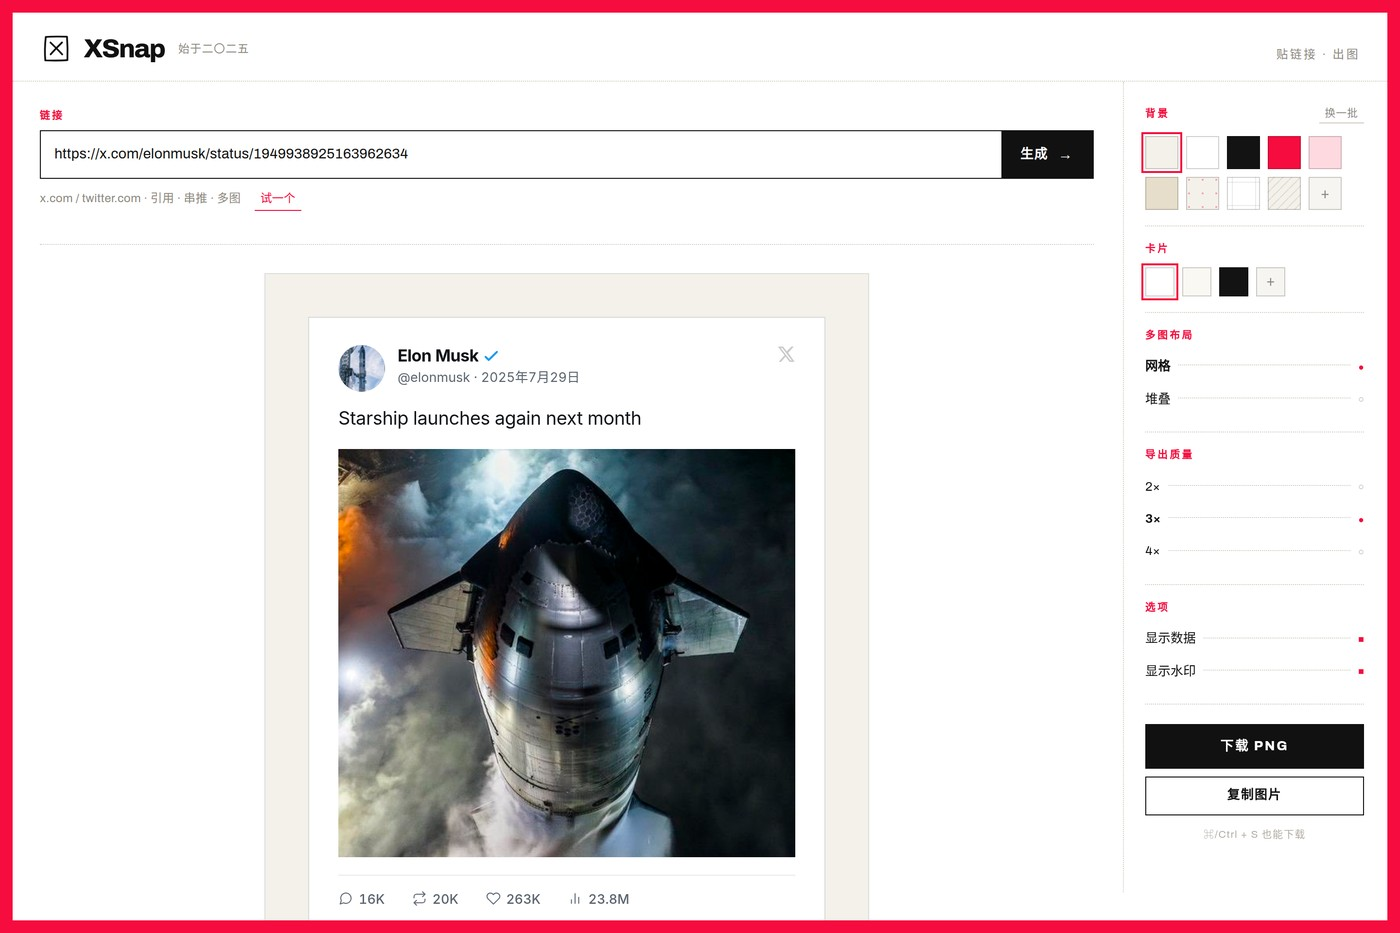
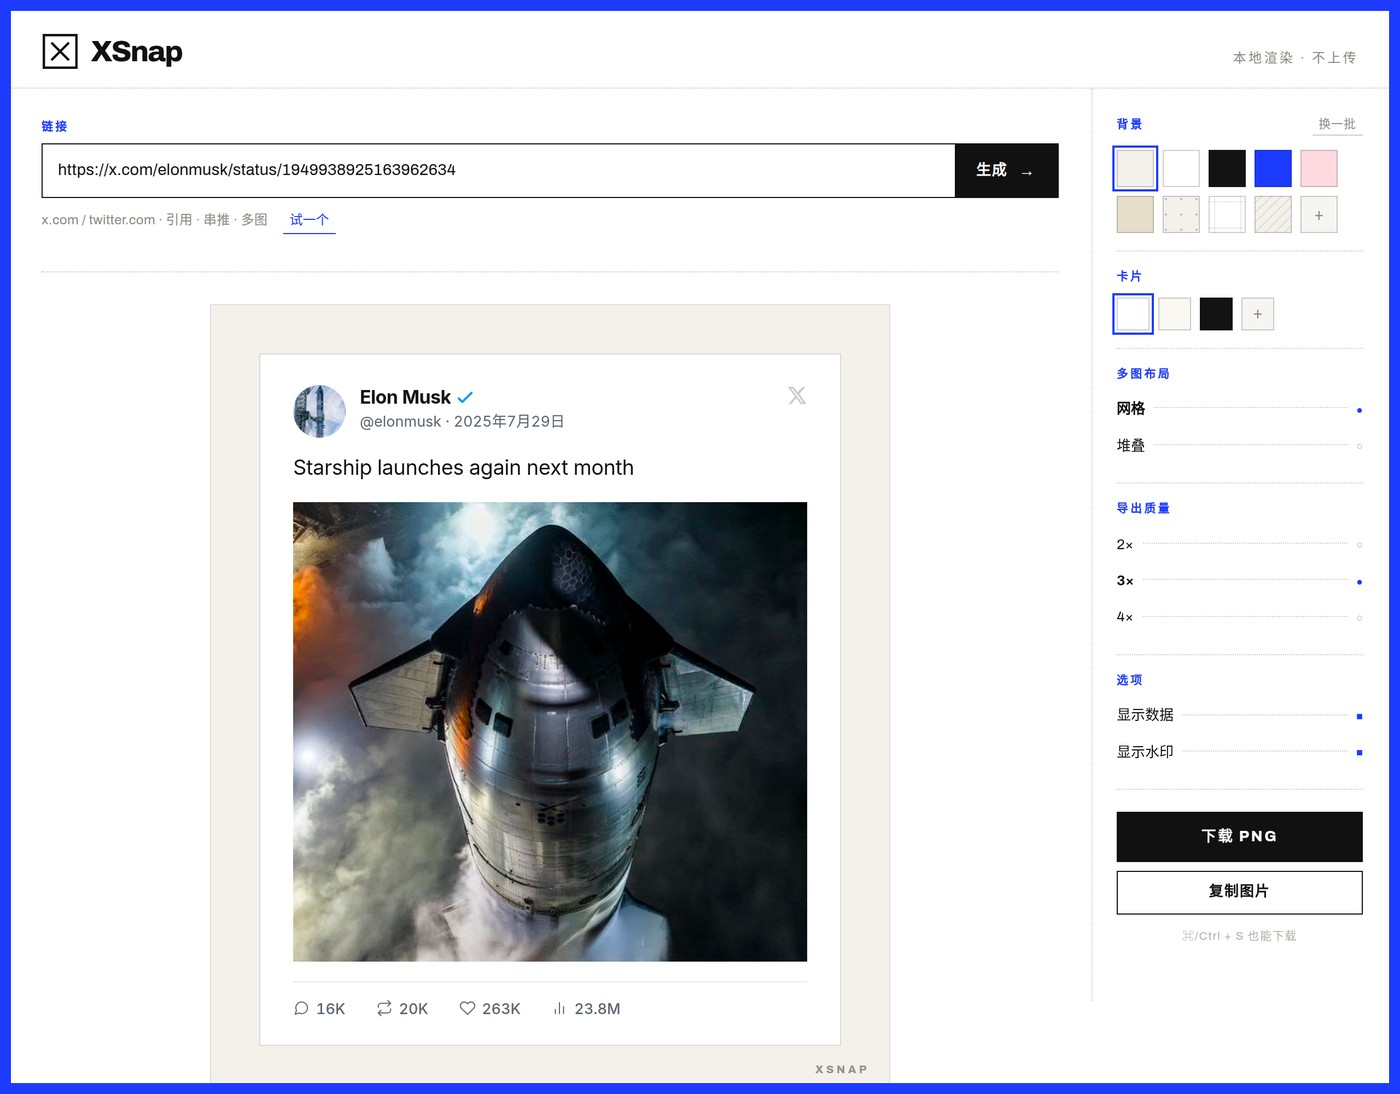
换掉抄来的主题色
anyway.fm 的胭脂红是它的招牌，我直接拿来当外框色了；连「始于二〇二五」都是照着
人家的「始于二〇一五」写的。参考不是照搬，改掉。

- 主题色换成钴蓝 #1D3BFF：外框、版面小标题、选中标记用它
- 外框收窄到 10px，并在内侧加一道白细线，像书页切边而不是网页边框
- 标志改成几何的直角方框加叉，和外框同构；不再模仿手绘
- 删掉「始于二〇二五」，masthead 右侧换成「本地渲染 · 不上传」——说自己的事
- 背景预设「胭脂」换成「靛」，点阵纹理同步换色
- README 的配色说明一并更正

Changed region(s): [[0.0, 0.0, 1.0, 1.0]]

diff --git a/assets/style.css b/assets/style.css
@@ -18,13 +18,13 @@
   --ink-70: #4c4a47;
   --ink-45: #8d8880;
   --ink-30: #b3aea5;
-  --crimson: #f60c3e;
-  --crimson-dark: #c9092f;
+  --accent: #1d3bff;
+  --accent-deep: #0f22c9;
   --rule: #e3ded5;
   --rule-2: #d2ccc1;
   --wash: #f7f5f1;
 
-  --frame: 13px;
+  --frame: 10px;
   --rail-w: 272px;
 
   --ease: cubic-bezier(0.2, 0.7, 0.3, 1);
@@ -60,15 +60,17 @@ input { font: inherit; color: inherit; }
 img { display: block; max-width: 100%; }
 ul { list-style: none; margin: 0; padding: 0; }
 
-::selection { background: var(--crimson); color: #fff; }
+::selection { background: var(--accent); color: #fff; }
 
-:focus-visible { outline: 2px solid var(--crimson); outline-offset: 2px; }
+:focus-visible { outline: 2px solid var(--accent); outline-offset: 2px; }
 
 /* ── the frame ──────────────────────────────────────────────────────────── */
 .frame {
   position: fixed;
   inset: 0;
-  border: var(--frame) solid var(--crimson);
+  border: var(--frame) solid var(--accent);
+  /* a hairline inside the band — reads like a printed page edge, not a web border */
+  box-shadow: inset 0 0 0 1px rgba(255, 255, 255, 0.55);
   pointer-events: none;
   z-index: 90;
 }
@@ -96,23 +98,13 @@ ul { list-style: none; margin: 0; padding: 0; }
   height: 34px;
   flex: 0 0 auto;
   color: var(--ink);
-  transition: transform 0.5s var(--ease);
 }
-.brand:hover .brand__mark { transform: rotate(-8deg); }
 
 .brand__word {
   font-size: 27px;
   font-weight: 800;
   letter-spacing: -0.045em;
   line-height: 1;
-  white-space: nowrap;
-}
-
-.brand__since {
-  font-size: 11.5px;
-  color: var(--ink-45);
-  letter-spacing: 0.06em;
-  padding-left: 3px;
   white-space: nowrap;
 }
 
@@ -147,7 +139,7 @@ ul { list-style: none; margin: 0; padding: 0; }
   font-size: 10.5px;
   font-weight: 800;
   letter-spacing: 0.2em;
-  color: var(--crimson);
+  color: var(--accent);
   text-transform: uppercase;
 }
 
@@ -189,7 +181,7 @@ ul { list-style: none; margin: 0; padding: 0; }
   letter-spacing: 0.06em;
   transition: background-color 0.18s var(--ease);
 }
-.btn-snap:hover { background: var(--crimson); }
+.btn-snap:hover { background: var(--accent); }
 .btn-snap__arrow {
   font-size: 15px;
   line-height: 1;
@@ -213,7 +205,7 @@ ul { list-style: none; margin: 0; padding: 0; }
 
 .link-underline {
   font-size: 12px;
-  color: var(--crimson);
+  color: var(--accent);
   border-bottom: 1px solid currentColor;
   padding-bottom: 1px;
   transition: opacity 0.18s;
@@ -241,7 +233,7 @@ ul { list-style: none; margin: 0; padding: 0; }
   font-size: 11px;
   font-weight: 800;
   letter-spacing: 0.3em;
-  color: var(--crimson);
+  color: var(--accent);
   margin-bottom: 20px;
 }
 .empty__title {
@@ -284,7 +276,7 @@ ul { list-style: none; margin: 0; padding: 0; }
 }
 .caption::before {
   content: "图 1 — ";
-  color: var(--crimson);
+  color: var(--accent);
   font-weight: 700;
   letter-spacing: 0.1em;
 }
@@ -323,13 +315,13 @@ ul { list-style: none; margin: 0; padding: 0; }
   font-size: 11px;
   font-weight: 700;
   letter-spacing: 0.08em;
-  color: var(--crimson);
+  color: var(--accent);
   background: transparent;
   border: 1px solid currentColor;
   transition: background-color 0.18s, color 0.18s;
   white-space: nowrap;
 }
-.parent-btn:hover { background: var(--crimson); color: #fff; }
+.parent-btn:hover { background: var(--accent); color: #fff; }
 .parent-btn[disabled] { opacity: 0.45; cursor: default; }
 .parent-btn svg { width: 10px; height: 10px; }
 
@@ -378,7 +370,7 @@ ul { list-style: none; margin: 0; padding: 0; }
   font-size: 12px;
   font-weight: 700;
   letter-spacing: 0.06em;
-  color: var(--crimson);
+  color: var(--accent);
   margin: -4px 0 16px;
 }
 .card__context svg { width: 12px; height: 12px; flex: 0 0 auto; }
@@ -439,7 +431,7 @@ ul { list-style: none; margin: 0; padding: 0; }
 
 .card__quote {
   border: 1px solid var(--c-line);
-  border-left: 3px solid var(--crimson);
+  border-left: 3px solid var(--accent);
   padding: 13px 15px;
   margin-bottom: 15px;
   background: var(--c-quote);
@@ -518,7 +510,7 @@ ul { list-style: none; margin: 0; padding: 0; }
   font-size: 10.5px;
   font-weight: 800;
   letter-spacing: 0.2em;
-  color: var(--crimson);
+  color: var(--accent);
   text-transform: uppercase;
   line-height: 1;
 }
@@ -532,7 +524,7 @@ ul { list-style: none; margin: 0; padding: 0; }
   padding-bottom: 1px;
   transition: color 0.18s, border-color 0.18s;
 }
-.mini:hover { color: var(--crimson); border-color: var(--crimson); }
+.mini:hover { color: var(--accent); border-color: var(--accent); }
 
 /* swatches */
 .swatches { display: flex; flex-wrap: wrap; gap: 8px; }
@@ -547,7 +539,7 @@ ul { list-style: none; margin: 0; padding: 0; }
   transition: outline-color 0.15s, transform 0.15s var(--ease);
 }
 .swatch:hover { transform: translateY(-2px); }
-.swatch.is-active { outline: 2px solid var(--crimson); outline-offset: 2px; }
+.swatch.is-active { outline: 2px solid var(--accent); outline-offset: 2px; }
 
 .swatch--custom {
   display: flex;
@@ -558,7 +550,7 @@ ul { list-style: none; margin: 0; padding: 0; }
   font-size: 15px;
   line-height: 1;
 }
-.swatch--custom:hover { color: var(--crimson); }
+.swatch--custom:hover { color: var(--accent); }
 
 .swatches--card .swatch { width: 30px; height: 30px; }
 
@@ -618,7 +610,7 @@ ul { list-style: none; margin: 0; padding: 0; }
 }
 
 .spec button[aria-pressed="true"] b,
-.spec input:checked ~ b { color: var(--crimson); }
+.spec input:checked ~ b { color: var(--accent); }
 .spec button[aria-pressed="true"] span { font-weight: 700; }
 
 .spec input { position: absolute; opacity: 0; width: 0; height: 0; }
@@ -626,8 +618,8 @@ ul { list-style: none; margin: 0; padding: 0; }
 .spec label b::before { content: "□"; }
 .spec label input:checked ~ b::before { content: "■"; }
 
-.spec button:hover span { color: var(--crimson); }
-.spec button:hover b { color: var(--crimson); }
+.spec button:hover span { color: var(--accent); }
+.spec button:hover b { color: var(--accent); }
 
 /* actions */
 .group--actions { padding-top: 20px; }
@@ -642,7 +634,7 @@ ul { list-style: none; margin: 0; padding: 0; }
   letter-spacing: 0.12em;
   transition: background-color 0.18s var(--ease);
 }
-.btn-solid:hover { background: var(--crimson); }
+.btn-solid:hover { background: var(--accent); }
 .btn-solid[disabled] { background: var(--ink-45); pointer-events: none; }
 
 .btn-line {
@@ -681,7 +673,7 @@ ul { list-style: none; margin: 0; padding: 0; }
   color: var(--ink-45);
 }
 .colophon a { color: var(--ink-70); border-bottom: 1px solid var(--rule-2); transition: color 0.18s, border-color 0.18s; }
-.colophon a:hover { color: var(--crimson); border-color: var(--crimson); }
+.colophon a:hover { color: var(--accent); border-color: var(--accent); }
 .colophon__sep { color: var(--ink-30); }
 
 /* ── toasts ─────────────────────────────────────────────────────────────── */
@@ -707,11 +699,11 @@ ul { list-style: none; margin: 0; padding: 0; }
   color: var(--paper);
   font-size: 12px;
   letter-spacing: 0.03em;
-  border-left: 3px solid var(--crimson);
+  border-left: 3px solid var(--accent);
   animation: toast-in 0.26s var(--ease) both;
 }
 .toast.is-out { animation: toast-out 0.2s ease both; }
-.toast--error { border-left-color: #ffffff; background: var(--crimson); }
+.toast--error { border-left-color: #ffffff; background: var(--accent); }
 
 @keyframes toast-in { from { opacity: 0; transform: translateX(-8px); } to { opacity: 1; transform: none; } }
 @keyframes toast-out { to { opacity: 0; transform: translateX(-6px); } }
@@ -744,10 +736,10 @@ ul { list-style: none; margin: 0; padding: 0; }
 @media (max-width: 760px) {
   :root { --frame: 6px; }
 
-  .frame { border-width: 0; border-top: 6px solid var(--crimson); }
+  .frame { border-width: 0; border-top: 6px solid var(--accent); }
 
   .masthead {
-    background: var(--crimson);
+    background: var(--accent);
     color: var(--paper);
     border-bottom: 0;
     padding: 12px 16px 11px;
@@ -755,7 +747,6 @@ ul { list-style: none; margin: 0; padding: 0; }
   }
   .brand__mark { color: var(--paper); width: 26px; height: 26px; }
   .brand__word { font-size: 21px; }
-  .brand__since { display: none; }
   .masthead__meta { font-size: 10.5px; letter-spacing: 0.14em; color: rgba(255,255,255,0.82); }
 
   .main { padding: 16px 14px 24px; }

diff --git a/index.html b/index.html
@@ -6,7 +6,7 @@
 
   <title>XSnap — 把一条推文排版成一张图</title>
   <meta name="description" content="贴一个 x.com 或 twitter.com 链接，得到一张干净、高清、可以直接发出去的图。引用、串推、多图都替你处理好。全部在浏览器里完成。">
-  <meta name="theme-color" content="#f60c3e">
+  <meta name="theme-color" content="#1d3bff">
 
   <meta property="og:type" content="website">
   <meta property="og:site_name" content="XSnap">
@@ -29,14 +29,13 @@
 
 <header class="masthead">
   <a class="brand" href="./">
-    <svg class="brand__mark" viewBox="0 0 48 48" aria-hidden="true">
-      <path d="M8.6 7.1C17.8 6.2 30.4 6.5 39.4 6.7c.7 9.4 1 22.9.6 34-9.7.8-22.4.7-32.1.4C7 30.4 7.4 17.6 8.6 7.1Z"
-            fill="none" stroke="currentColor" stroke-width="2.6" stroke-linejoin="round"/>
-      <path d="M15.4 15.2c5.6 5.4 11.3 11 17.1 17.2" fill="none" stroke="currentColor" stroke-width="2.6" stroke-linecap="round"/>
-      <path d="M32.2 15.1C26.6 20.6 21.1 26.2 15.7 32.3" fill="none" stroke="currentColor" stroke-width="2.6" stroke-linecap="round"/>
+    <svg class="brand__mark" viewBox="0 0 40 40" aria-hidden="true">
+      <rect x="2.5" y="2.5" width="35" height="35" fill="none"
+            stroke="currentColor" stroke-width="2.6"/>
+      <path d="M11.5 11.5 28.5 28.5M28.5 11.5 11.5 28.5" stroke="currentColor"
+            stroke-width="2.6" stroke-linecap="square"/>
     </svg>
     <span class="brand__word">XSnap</span>
-    <span class="brand__since" data-i18n="since">始于二〇二五</span>
   </a>
   <p class="masthead__meta" data-i18n="masthead">贴链接 · 出图</p>
 </header>
@@ -92,7 +91,7 @@
           <span data-i18n="from">起</span>
         </label>
         <label class="color-input">
-          <input type="color" id="bg-color-2" value="#f60c3e">
+          <input type="color" id="bg-color-2" value="#1d3bff">
           <span data-i18n="to">止</span>
         </label>
       </div>

diff --git a/assets/main.js b/assets/main.js
@@ -27,11 +27,11 @@
     { id: 'paper',  name: '纸',   bg: '#f4f1ea', wm: 'rgba(17,17,17,0.42)' },
     { id: 'white',  name: '白',   bg: '#ffffff', wm: 'rgba(17,17,17,0.34)' },
     { id: 'ink',    name: '墨',   bg: '#131313', wm: 'rgba(255,255,255,0.46)' },
-    { id: 'rouge',  name: '胭脂', bg: '#f60c3e', wm: 'rgba(255,255,255,0.66)' },
+    { id: 'indigo', name: '靛',   bg: '#1d3bff', wm: 'rgba(255,255,255,0.7)' },
     { id: 'blush',  name: '粉',   bg: '#ffd9e0', wm: 'rgba(17,17,17,0.42)' },
     { id: 'sand',   name: '沙',   bg: '#e6ddca', wm: 'rgba(17,17,17,0.42)' },
     { id: 'dots',   name: '点阵', bg: '#f4f1ea', wm: 'rgba(17,17,17,0.42)',
-      tile: { w: 14, h: 14, svg: "<circle cx='7' cy='7' r='1' fill='#f60c3e' fill-opacity='0.38'/>" } },
+      tile: { w: 14, h: 14, svg: "<circle cx='7' cy='7' r='1' fill='#1d3bff' fill-opacity='0.34'/>" } },
     { id: 'grid',   name: '方格', bg: '#ffffff', wm: 'rgba(17,17,17,0.34)',
       tile: { w: 24, h: 24,
         svg: "<rect width='24' height='1' fill='#111111' fill-opacity='0.09'/>" +
@@ -48,7 +48,7 @@
 
   const state = {
     lang: 'en',
-    bg: { colors: ['#f4f1ea', '#f60c3e'], preset: 0 },
+    bg: { colors: ['#f4f1ea', '#1d3bff'], preset: 0 },
     card: { mode: 'light', color: '#ffffff' },
     layout: 'grid',
     quality: 3,

diff --git a/assets/i18n.js b/assets/i18n.js
@@ -2,8 +2,7 @@
 const i18n = {
   en: {
     pageTitle: "XSnap — Turn a post into an image",
-    since: "since 2025",
-    masthead: "LINK IN · IMAGE OUT",
+    masthead: "RENDERED LOCALLY · NOTHING UPLOADED",
     urlLabel: "Link",
     placeholder: "https://x.com/…",
     generate: "Snap",
@@ -53,8 +52,7 @@ const i18n = {
 
   zh: {
     pageTitle: "XSnap — 把一条推文排版成一张图",
-    since: "始于二〇二五",
-    masthead: "贴链接 · 出图",
+    masthead: "本地渲染 · 不上传",
     urlLabel: "链接",
     placeholder: "https://x.com/…",
     generate: "生成",

diff --git a/README.md b/README.md
@@ -28,10 +28,10 @@ XSnap 是个纯浏览器的工具：把一个公开的 Twitter/X 链接变成一
 
 | | |
 |---|---|
-| **背景** | 6 种纸面底色（纸/白/墨/胭脂/粉/沙）、3 种印刷纹理（点阵/方格/斜纹）、任意双色硬分割 |
+| **背景** | 6 种纸面底色（纸/白/墨/靛/粉/沙）、3 种印刷纹理（点阵/方格/斜纹）、任意双色硬分割 |
 | **卡片** | 白纸 / 米纸 / 墨卡，或者任意底色 —— 文字对比度自动算 |
 | **多图** | 1–4 张，网格或堆叠，统一裁切 |
-| **引用推** | 连同它自带的图一起还原，左侧一道胭脂红竖线 |
+| **引用推** | 连同它自带的图一起还原，左侧一道靛蓝竖线 |
 | **串推** | 点「显示上一条」逐层往上追，一张卡片一层 |
 | **导出** | 2× / 3× / 4×，下载 PNG 或直接复制到剪贴板 |
 | **选项** | 数据、水印各自可关 |
@@ -42,9 +42,12 @@ XSnap 是个纯浏览器的工具：把一个公开的 Twitter/X 链接变成一
 
 ## 设计
 
-视觉语言来自印刷品，不是网页：**胭脂红 `#F60C3E` 的整页外框**、纯白纸面、**点状细线**做所有结构分隔、目录式的点线引导、方角零阴影、细边框小方块当标签。
+视觉语言来自印刷品，不是网页：**钴蓝 `#1D3BFF` 的整页外框**、纯白纸面、**点状细线**做所有结构分隔、目录式的点线引导、方角零阴影、细边框小方块当标签。
 
 层级靠字重和分割线建立，不靠渐变、圆角和光斑 —— 全站只有一种强调色，其余全是黑与灰。
+
+颜色是自己的：**钴蓝 `#1D3BFF`** 走外框、版面小标题和选中标记；标志是几何的直角方框加叉，
+和外框同构。这套语言参考了印刷品和编辑设计，但颜色、标志、栅格都是这个项目自己的。
 
 移动端外框收成顶部红色条，和桌面同一套语言。
 
@@ -108,7 +111,7 @@ XSnap.copyImage()                                // 复制当前卡片
 
 界面推倒重来。功能没减，层次重新梳过。
 
-- 一套印刷品语言：胭脂红外框、点状细线、目录式点线引导、方角零阴影
+- 一套印刷品语言：钴蓝外框、点状细线、目录式点线引导、方角零阴影
 - 背景从 2018 年的柔和渐变换成纸面底色 + 印刷纹理 + 双色硬分割
 - 卡片去掉圆角和投影，改成细边框的「剪报」；加认证徽章、发帖日期、真图标
 - 自定义底色自动算文字对比度，深色卡不会出现看不清的字
